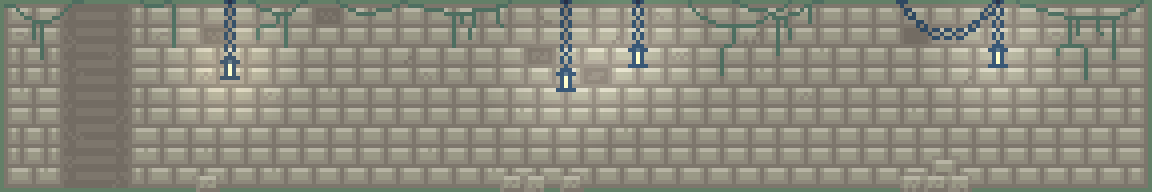
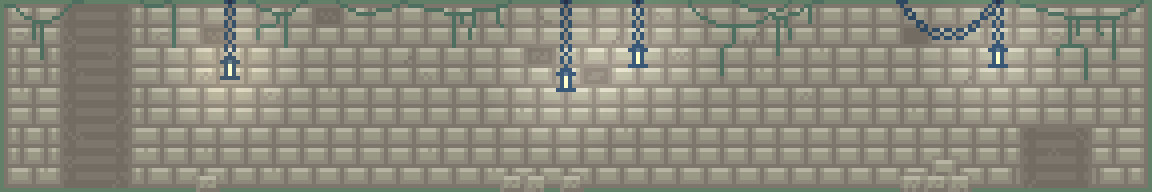
Updated enemy spawning mechanics away from ladder

Changed region(s): [[0.875, 0.6562, 0.9688, 0.8438], [0.875, 0.875, 0.9688, 0.9688]]

diff --git a/Panel.java b/Panel.java
@@ -194,7 +194,7 @@ public class Panel extends JPanel implements Runnable, KeyListener {
             paintPlayer(g, g2D);
             paintUI(g, g2D); // Do this last, as UI renders ontop of everything else.
         }
-        //paintCol(g, g2D);
+        // paintCol(g, g2D);
         paintDeathUI(g, g2D);
         paintMenuUI(g, g2D);
     }
@@ -676,10 +676,8 @@ public class Panel extends JPanel implements Runnable, KeyListener {
                 panYDone = false;
                 if (lastInRoom > lastRoom) {
                     panY(lastRoom, true); // Pan up to specified room.
-                    System.out.println("PANNING UP");
                 } else {
                     panY(lastRoom, false);
-                    System.out.println("PANNING DOWN");
                 }
                 if (panYDone) // Once panYDone is true, set lastInRoom to be inRoom.
                     lastInRoom = lastRoom;
@@ -714,7 +712,6 @@ public class Panel extends JPanel implements Runnable, KeyListener {
                 panYDone = true; // Once finished panning, set panYDone to true.
         } else { // If up is false.
             if (room.get(level).col.y + room.get(level).col.height / 2 < HEIGHT / 2) {
-                System.out.println(panYSpeed);
                 // Check center of room against center of screen.
                 if (panYSpeed <= 32 && panYAccelerating) { // Make sure panYSpeed is less than / equal to 32.
                     panYSpeed++; // Increase panYSpeed towards maximum of 32.
@@ -725,8 +722,6 @@ public class Panel extends JPanel implements Runnable, KeyListener {
                 parallax += panYSpeed; // Increase parallax.
             } else {
                 panYDone = true;
-                System.out.println("panY finished");
-
             }
         }
     }
@@ -1093,7 +1088,6 @@ public class Panel extends JPanel implements Runnable, KeyListener {
                     else if (onLadder && !onLadderTop) {
                         playerClimbSpeedUp = -playerClimbSpeedMax;
                         climbingLadder = true;
-                        System.out.println(climbingLadder);
                     }
                     break;
                 case 39: // Move right.
@@ -1141,14 +1135,17 @@ public class Panel extends JPanel implements Runnable, KeyListener {
             // 1 second delay between game start and acceptung user input.
             switch (e.getKeyCode()) {
                 case 32: // Start game.
-                    scaleDifficulty();
-                    titleScreen = false;
+                    if (!settings) {
+                        scaleDifficulty();
+                        titleScreen = false;
+                    }
                     break;
                 case 83: // Settings.
                     settings = !settings;
                     break;
                 case 81: // Quit.
-                    System.exit(0);
+                    if (!settings)
+                        System.exit(0);
                     break;
             }
             if (settings)

diff --git a/Enemy.java b/Enemy.java
@@ -55,8 +55,12 @@ public class Enemy {
             width = enemyImg.getWidth(null);
             height = enemyImg.getHeight(null);
 
-            x = (int) (Math.random() * (Room.width - width) + Room.x);
+            if (level % 2 == 0) // Even levels where ladder is on the right.
+                x = (int) (Math.random() * (Room.width / 2 - width) + Room.x);
             // Set x to be random number within room bounds.
+            else
+                x = (int) (Math.random() * (Room.width / 2 - width) + Room.x + Room.width / 2);
+
             y = Panel.roomYBase + Panel.roomYLevel * level + Room.height - height;
 
             if (level != 3)
